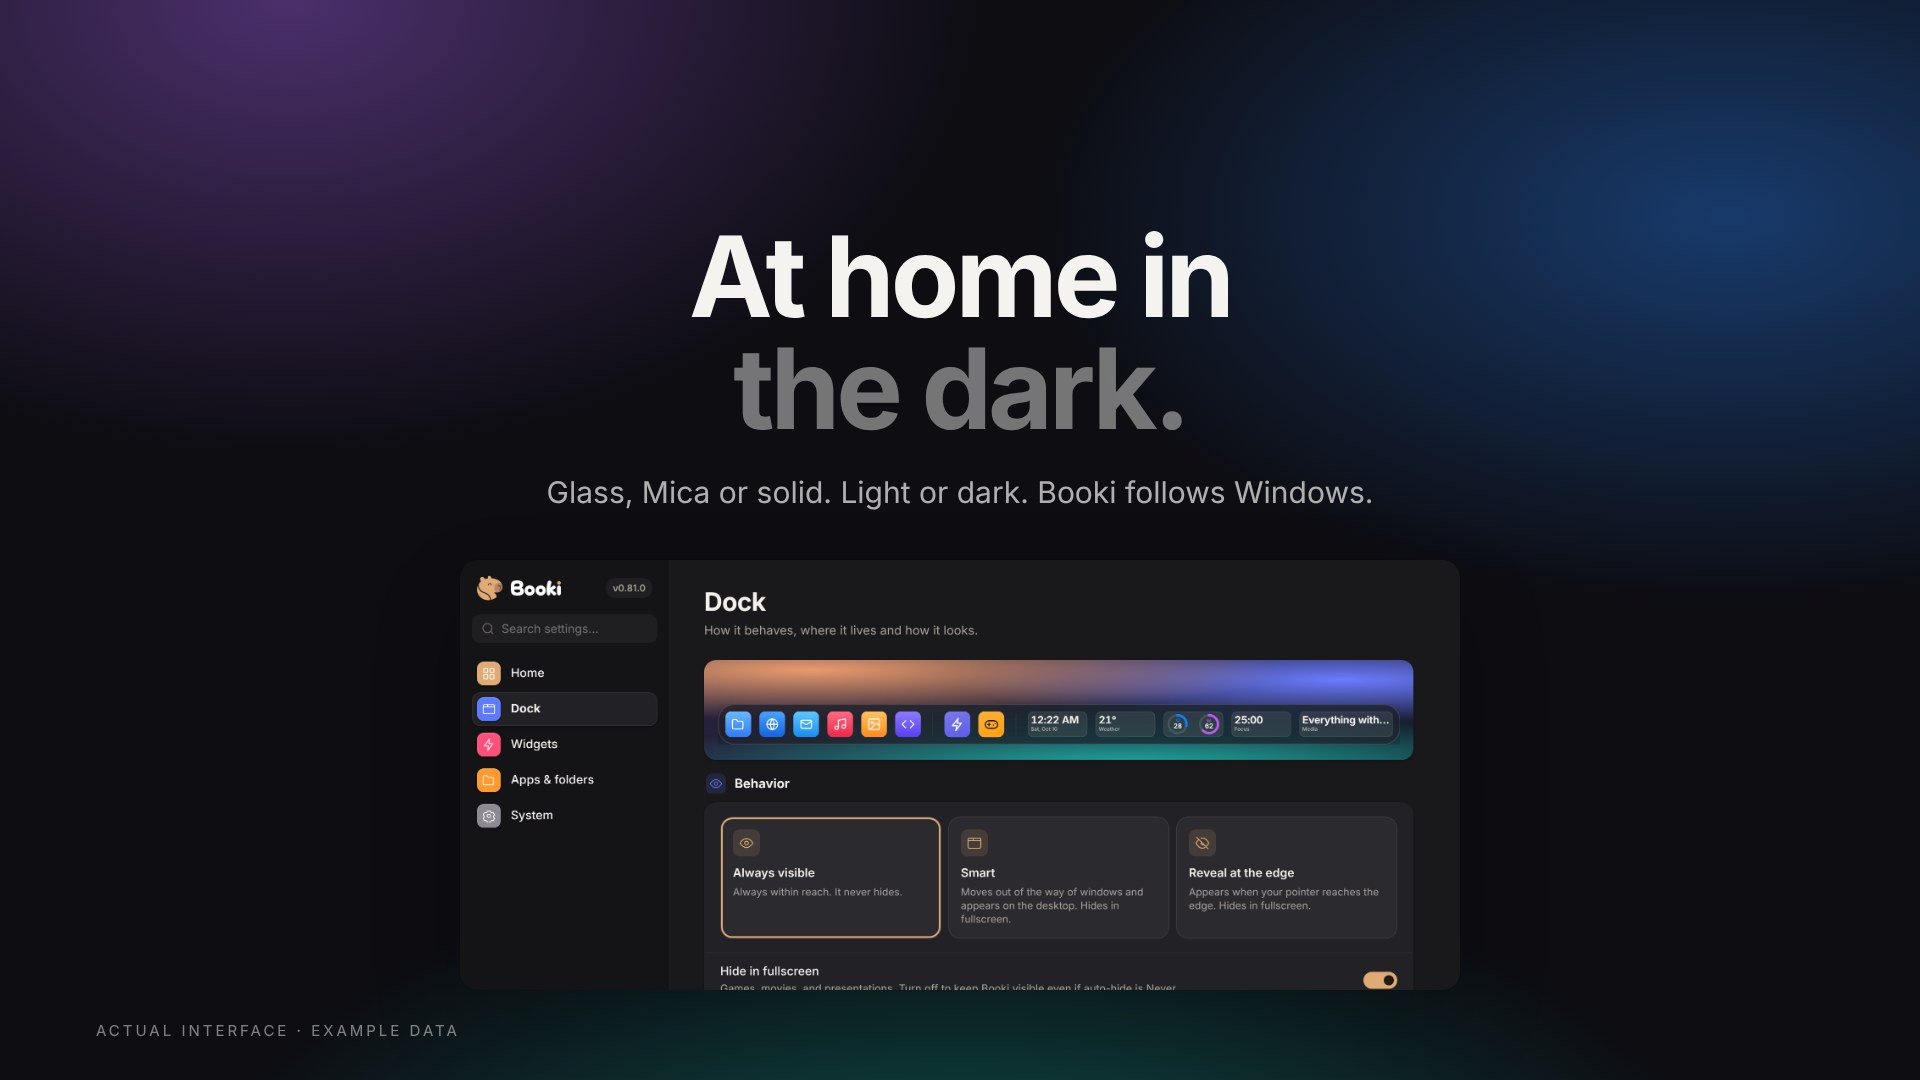
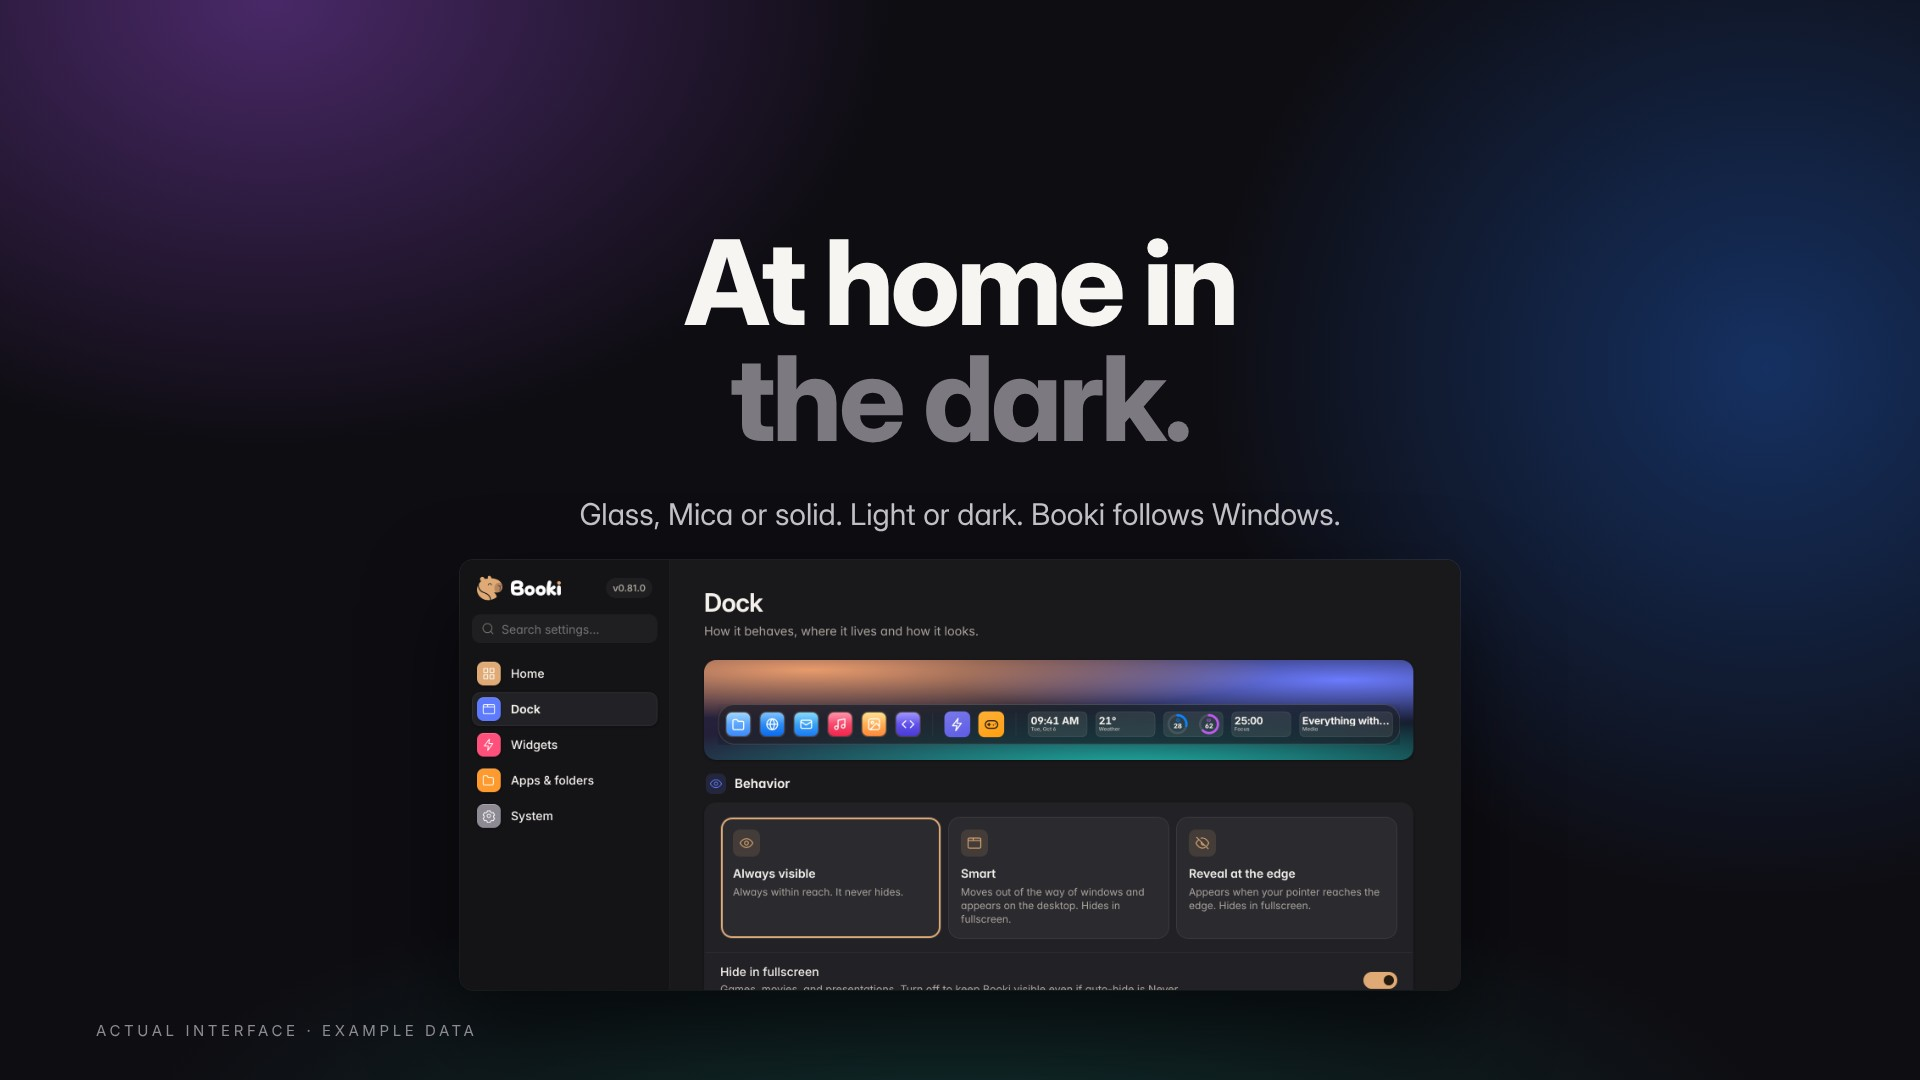
Render the README stills reproducibly with a frozen 9:41 clock
Add tools/presentation/stills.mjs (npm run stills): plain Playwright on the
test harness captures the real built dock, notch Island and Settings pages
with sample data and composites the six 0.81 stills in English and Spanish.

studioPatch gains a `frozen` option so Date.now() and new Date() return a
constant; the focus timer ends 18 minutes after 9:41, so the dock clock, the
focus widget and the Island all read the same moment (9:41, 18:00, 18:00).
The film keeps a running clock.

Claude-Session: https://claude.ai/code/session_01N4PrhabV9k6XZwCcoXyqVH

diff --git a/tools/presentation/README.md b/tools/presentation/README.md
@@ -1,12 +1,30 @@
 # Booki presentation
 
-A reproducible, silent 40-second film and six 1920×1080 stills per language (English and Spanish), used by the READMEs.
+Six reproducible 1920×1080 README stills per language (English and Spanish) and the silent 40-second 0.70 film with its poster frames.
 
-Every product image is a capture of the actual built frontend, driven by safe fixtures in `fixtures.mjs`: generic glyph app icons (no third-party logos), made-up tasks, a fixed 9:41 clock and example weather, CPU and media data. Windows renders Booki in Segoe UI, which Linux lacks, so captures use Inter, the closest open face. Browser renders do not show native acrylic, Show Desktop, real installed apps or hardware performance. No private configuration, clipboard, notes, third-party artwork or music is captured.
+Every product image is a capture of the actual built frontend, driven by safe fixtures in `fixtures.mjs`: generic glyph app icons (no third-party logos), made-up tasks, a clock that starts at 9:41 (frozen at 9:41 for the stills) and example weather, CPU and media data. Windows renders Booki in Segoe UI, which Linux lacks, so captures use Inter, the closest open face. Browser renders do not show native acrylic, Show Desktop, real installed apps or hardware performance. No private configuration, clipboard, notes, third-party artwork or music is captured.
 
-## Scenes
+## README stills
 
-| # | Scene | Still |
+The twelve images in `docs/presentation/` (`hero`, `widgets`, `island`, `groups`, `settings` and `dark`, each in `-en` and `-es`, 1920×1080) come from `stills.mjs`. It uses Playwright directly, not Remotion:
+
+```bash
+npm ci
+npm run build
+npm run stills --prefix tools/presentation
+```
+
+- It serves `dist/` through the test harness (`tests/harness.mjs`), captures the dock, the notch Island and four Settings pages at 2× with sample data, then lays each still out as an HTML page (wallpaper, headline, captured UI) and screenshots it.
+- The clock is frozen at 9:41 on Tuesday 6 October 2026 (`studioPatch(font, { frozen: true })`, pages run in UTC), and the focus timer ends 18 minutes later, so the dock clock, the focus widget and the Island all agree: 9:41, 18:00 and 18:00 on every run.
+- The sample dock: Files, Browser, Mail, Music, Photos and Code, a Work group (indigo, lightning icon) and a Play group (orange, gamepad icon), then clock, weather, system, focus and media widgets.
+- It exits with an error if a page logs a JavaScript error or a headline overflows its box. Captures go to the ignored `public/stills/`.
+- `BOOKI_STILLS_LANGUAGE=en` (or `es`) limits the languages; `BOOKI_CHROMIUM` reuses an installed Chromium.
+
+The Settings preview strip shows the product's own fixed examples (21°, 25:00), not the sample dock's values.
+
+## Film scenes
+
+| # | Scene | Poster frame |
 |---|---|---|
 | 1 | Intro: logo and tagline | — |
 | 2 | Desktop: the dock rises over a soft wallpaper | `hero-*.jpg` |
@@ -17,7 +35,7 @@ Every product image is a capture of the actual built frontend, driven by safe fi
 | 7 | Dark mode desktop | `dark-*.jpg` |
 | 8 | Privacy and release card | — |
 
-## Reproduce
+## Reproduce the film
 
 From the repository root, with the project’s Node version:
 
@@ -31,7 +49,7 @@ npm run render --prefix tools/presentation
 
 - `capture.mjs`: wallpapers, dock (light/dark), tasks panel, widget cards and Settings windows into ignored `public/`.
 - `src/copy.mjs`: all film copy in both languages; `src/index.jsx`: scenes and motion (30 fps, 5 s per scene).
-- `render.mjs`: stills, H.264 MP4 and WebVTT captions into `docs/presentation/`.
+- `render.mjs`: poster frames, H.264 MP4 and WebVTT captions into `docs/presentation/`. Its poster frames are the older 0.70 set and share file names with the README stills (`hero`, `widgets`, `settings`, `dark`), so run `npm run stills` afterwards to restore them.
 
 Environment: `BOOKI_CHROMIUM` reuses an installed Chrome/headless shell; `BOOKI_FILM_LANGUAGE=en` (or `es`) limits the languages; `BOOKI_STILLS_ONLY=1` skips the films; `BOOKI_CONCURRENCY` sets render workers.
 
